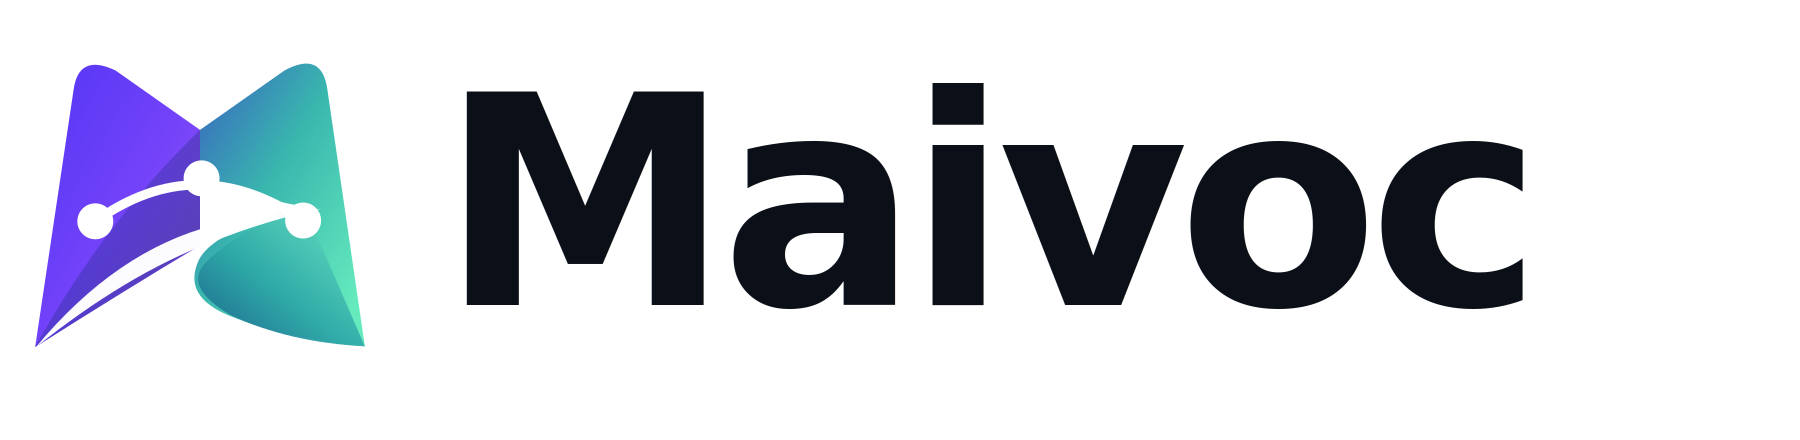
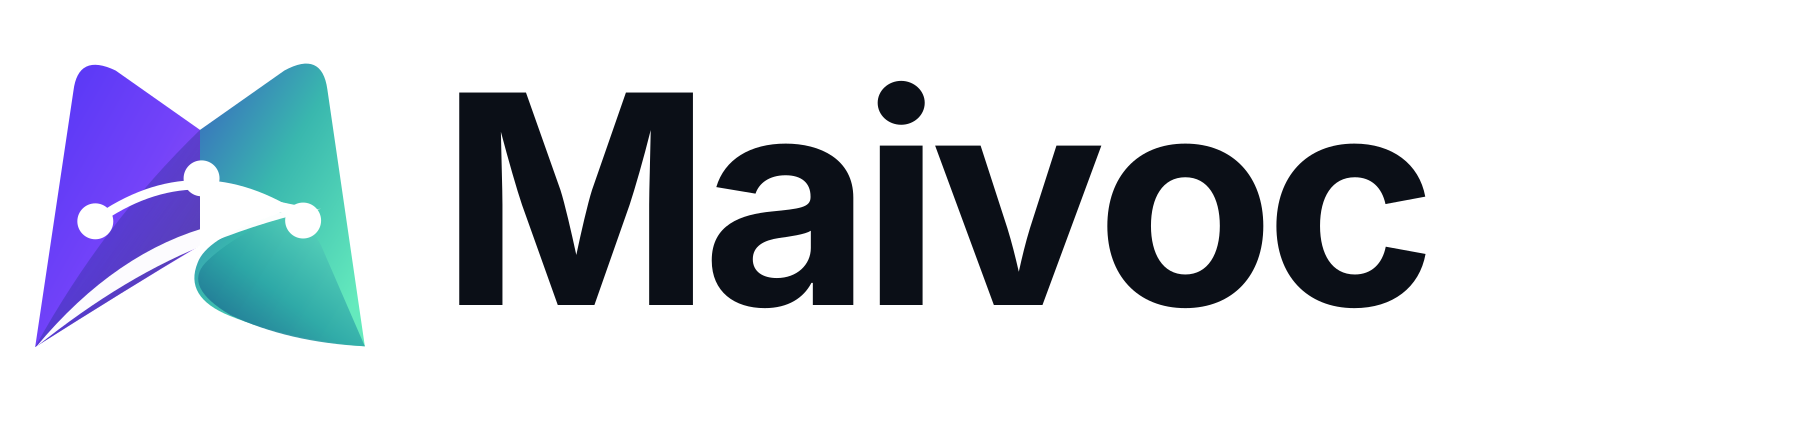
fix(brand): reversed Maivoc lockup and reviewed asset generation
Add dark-safe white wordmark with outlined SVG paths, transparent PNG, brand usage notes, and prevent brand workflow commits directly to main. Reviewed against original Review #4 feedback.

Changed region(s): [[0.2489, 0.2068, 0.8711, 0.7091], [0.4667, 0.1773, 0.56, 0.2955]]

diff --git a/scripts/build_brand_assets.py b/scripts/build_brand_assets.py
@@ -35,6 +35,7 @@ def tile(size: int, content_width: float = 0.85) -> Image.Image:
 
 save(render_svg(BRAND / 'maivoc-mark.svg', 1024, 1024), BRAND / 'maivoc-mark.png')
 save(render_svg(BRAND / 'maivoc-lockup.svg', 1800, 440), BRAND / 'maivoc-lockup.png')
+save(render_svg(BRAND / 'maivoc-lockup-reversed.svg', 1800, 440), BRAND / 'maivoc-lockup-reversed.png')
 for size in (16, 32):
     save(render_svg(BRAND / 'maivoc-mark.svg', size, size), PWA / f'favicon-{size}x{size}.png')
 save(tile(180), PWA / 'apple-touch-icon-180x180.png')

diff --git a/scripts/verify_brand_assets.py b/scripts/verify_brand_assets.py
@@ -10,6 +10,7 @@ PWA = BRAND / 'pwa'
 expected = {
     BRAND / 'maivoc-mark.png': (1024, 1024, True),
     BRAND / 'maivoc-lockup.png': (1800, 440, True),
+    BRAND / 'maivoc-lockup-reversed.png': (1800, 440, True),
     PWA / 'favicon-16x16.png': (16, 16, True),
     PWA / 'favicon-32x32.png': (32, 32, True),
     PWA / 'apple-touch-icon-180x180.png': (180, 180, False),

diff --git a/docs/MEDIA_GUIDE.md b/docs/MEDIA_GUIDE.md
@@ -1,13 +1,14 @@
 # Maivoc media usage, deployment and provenance
 
 ## Canonical source-of-truth
-`assets/branding/maivoc-mark.svg` and `assets/branding/maivoc-lockup.svg` are the editable vector master files. The mark has a **truly transparent SVG canvas**. Never start from a screenshot/marketing board or an automatically generated portal/lock image.
+`assets/branding/maivoc-mark.svg`, `assets/branding/maivoc-lockup.svg` and `assets/branding/maivoc-lockup-reversed.svg` are the editable vector master files. The light lockup uses a charcoal outlined Inter Bold wordmark; the reversed lockup uses the same outlines in white. The mark has a **truly transparent SVG canvas**. Never start from a screenshot/marketing board or an automatically generated portal/lock image.
 
 ## Generated assets (committed in M4)
 | Repository file | Alpha / background | Purpose |
 |---|---|---|
 | `assets/branding/maivoc-mark.png` | Transparent, 1024² | Logo/icon master, press and splash materials |
-| `assets/branding/maivoc-lockup.png` | Transparent, 1800×440 | Wordmark + connected-M |
+| `assets/branding/maivoc-lockup.png` | Transparent, 1800×440 | Dark wordmark, **light surfaces only** |
+| `assets/branding/maivoc-lockup-reversed.png` | Transparent, 1800×440 | White wordmark, **dark surfaces only** |
 | `assets/branding/pwa/favicon-16x16.png` | Transparent | Browser favicon |
 | `assets/branding/pwa/favicon-32x32.png` | Transparent | Browser favicon |
 | `assets/branding/pwa/apple-touch-icon-180x180.png` | Opaque charcoal | iOS home screen |
@@ -22,7 +23,7 @@ python3 -m pip install Pillow==11.3.0 CairoSVG==2.8.2
 python3 scripts/build_brand_assets.py
 python3 scripts/verify_brand_assets.py
 ```
-Assets on `feat/m4-branding` are generated and committed by `.github/workflows/brand-assets.yml` when vector masters change. The production app should consume the committed PNGs; end users do **not** need Python imaging dependencies.
+On `feat/*` and `fix/*` branches, `.github/workflows/brand-assets.yml` regenerates and commits PNG binaries when vector masters change. It **refuses** to run the commit job on `main`, including manual dispatch. Review generated binary changes in a pull request before merge. The production app should consume the committed PNGs; end users do **not** need Python imaging dependencies.
 
 ## Runtime mounting: official LibreChat image, not a fork
 LibreChat v0.8.8's `client/vite.config.ts` generates `client/dist/manifest.webmanifest` at build-time. The pinned Docker image serves the built assets from `/app/client/dist`. The Maivoc Compose override bind-mounts the custom manifest and icon filenames on those existing paths; `scripts/bootstrap.sh` copies the override into the Git-ignored upstream runtime.

diff --git a/docs/BRANDING.md b/docs/BRANDING.md
@@ -23,7 +23,7 @@
 Treat token values as intended UI palette; the logo SVG gradients use additional intermediate stops. Meet WCAG AA contrast for all functional text, particularly mint on white.
 
 ## Typography
-**Inter** for product UI and wordmark. Recommended headings: semibold/bold, body: regular/medium. Prefer an accessible readable fallback. The SVG lockup includes a DejaVu Sans fallback; PNG is the reproducible display asset.
+**Inter** for product UI. The lockup wordmark is now **outlined Inter Bold glyphs** (not live SVG text), so no installed fonts are needed to render either variant. The typography outlines are stored only for the six-letter Maivoc brand wordmark, not as a font file. Recommended product UI headings: semibold/bold; body: regular/medium.
 
 ## Mark construction
 - The `M` must retain both wings, three white circular nodes, connecting arc and open internal pathway.
@@ -33,7 +33,7 @@ Treat token values as intended UI palette; the logo SVG gradients use additional
 
 ## Variant guidance
 - Transparent `maivoc-mark.png` or SVG for editorial, hero, iconography and light/dark layouts.
-- Transparent `maivoc-lockup.png` or SVG for README, sponsorship, presentation titles.
+- Transparent `maivoc-lockup.png` or SVG (dark wordmark) **only on light backgrounds**. Transparent `maivoc-lockup-reversed.png` or `maivoc-lockup-reversed.svg` (white wordmark) **only on dark backgrounds**.
 - Dark square icons with centered mark for browser install, mobile and system menus.
 - Maskable icon adds extra padding so operating systems can crop safely.
 
@@ -43,6 +43,9 @@ Treat token values as intended UI palette; the logo SVG gradients use additional
 - Don't apply drop shadows or clipping that cut off nodes.
 - Don't put free cloud models in the **Local · Private** category.
 - Don't represent Maivoc as an official LibreChat product or imply endorsement.
+
+## Font provenance
+The outlined wordmark paths are based on the Inter Bold typeface (SIL Open Font License 1.1, https://rsms.me/inter/). No font file is distributed in Maivoc. Retain this provenance notice with the design assets.
 
 ## Attribution
 Maivoc visual artwork was created for this project, independently of LibreChat's upstream marks. The separate application engine is based on **LibreChat (MIT)**, and its source and required notices remain in `docs/UPSTREAM.md` and `third_party/LibreChat-LICENSE`. Brand/trademark rights are not established by this guide; obtain project-owner approval for unrelated commercial use.

diff --git a/README.md b/README.md
@@ -12,7 +12,7 @@ The canonical icon is the **connected-M** (violet→mint M wings with three whit
 
 ![Maivoc connected-M icon](assets/branding/maivoc-mark.svg)
 
-Brand files live in `assets/branding/`. The transparent PNG master and opaque mobile/PWA icons are generated from SVG and committed by GitHub Actions. This repo's Compose overlay mounts the Maivoc web manifest and branded images onto the pinned official LibreChat application. Test an actual phone installation before calling PWA readiness complete.
+Brand files live in `assets/branding/`. Use the [light lockup](assets/branding/maivoc-lockup.png) on bright backgrounds and the [reversed lockup](assets/branding/maivoc-lockup-reversed.png) on dark backgrounds. Both have a font-independent outlined Inter wordmark. The transparent PNG master and opaque mobile/PWA icons are generated from SVG and committed by GitHub Actions. This repo's Compose overlay mounts the Maivoc web manifest and branded images onto the pinned official LibreChat application. Test an actual phone installation before calling PWA readiness complete.
 
 **Provider trust:** `Local · Private` (Ollama on your hardware); `Free · Limits apply` (rate-limited cloud free tiers); `Paid · Billed to your key` (optional APIs). The custom endpoint labels are set in YAML; not all built-in provider picker subtitles can be changed through configuration. See the guide.
 
